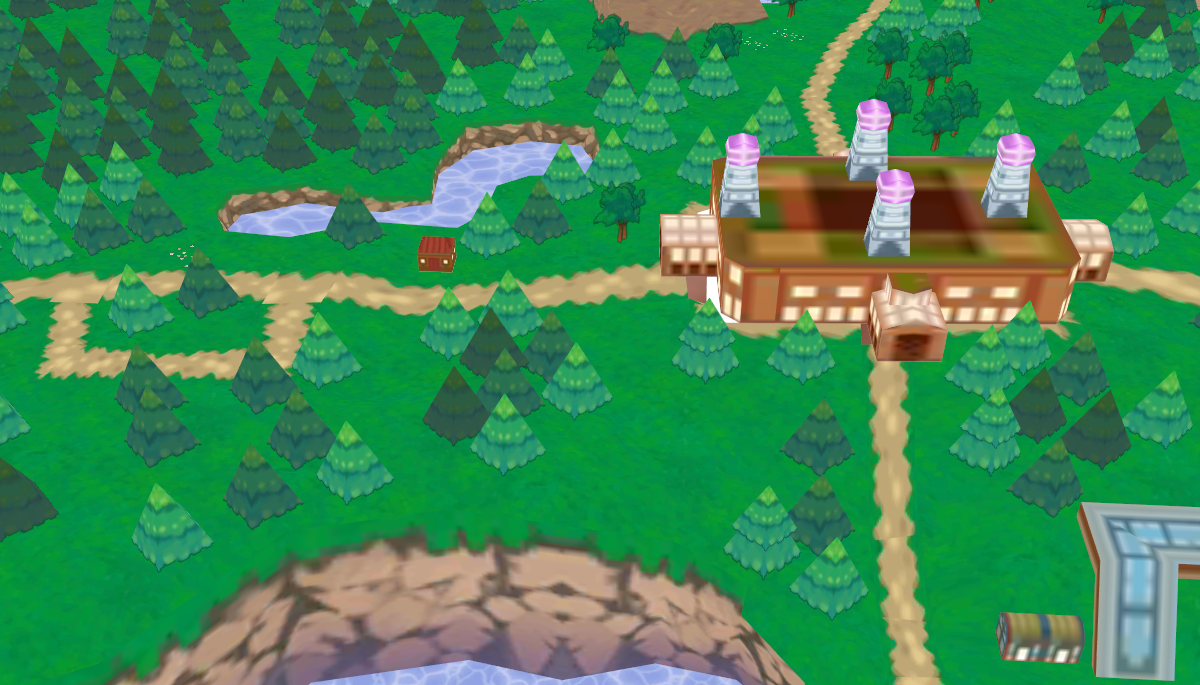
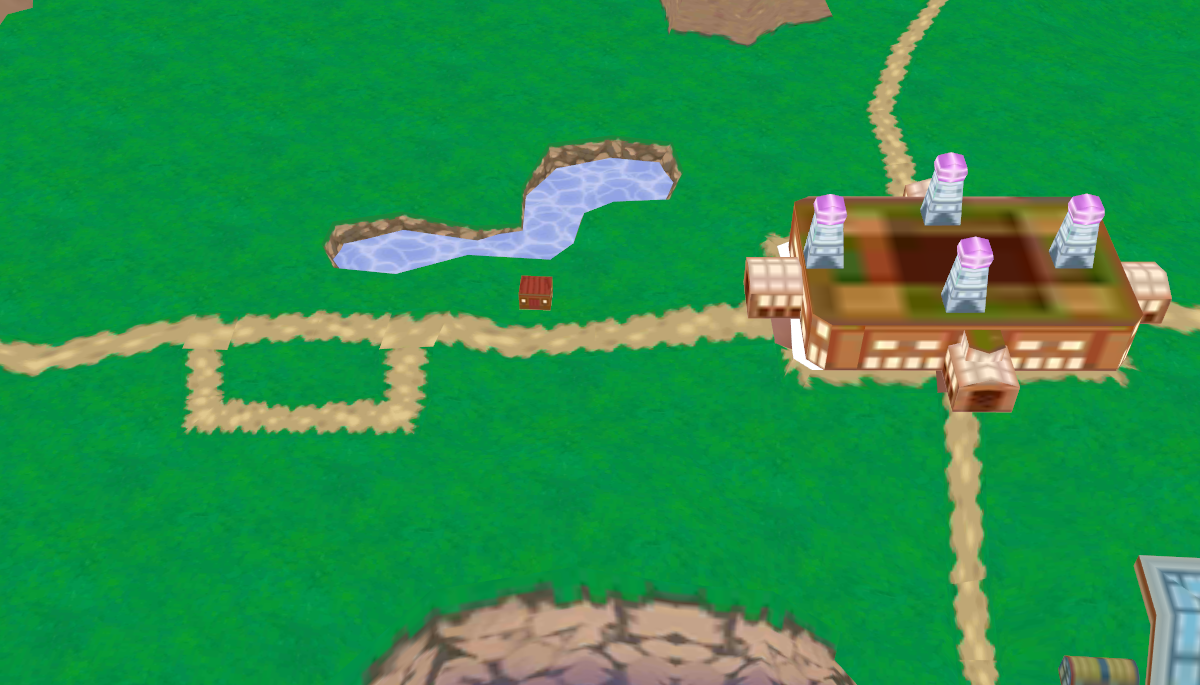
MapaFull

diff --git a/src/model/Logic.java b/src/model/Logic.java
@@ -15,11 +15,11 @@ public class Logic {
 	String pokemones2[];
 	
 	private int map [][]=  
-	       {{2, 0, 0, 0, 0, 2, 1, 1, 0, 0, 1},
-		    {0, 0, 1, 0, 0, 1, 0, 0, 0, 2, 0},
-		    {0, 0, 1, 1, 1, 0, 0, 0, 0, 0, 0},
-		    {0, 1, 1, 1, 0, 1, 0, 1, 0, 1, 0},
-		    {0, 2, 1, 0, 0, 1, 2, 4, 0, 0, 0},
+	       {{0, 0, 0, 0, 0, 0, 0, 0, 0, 2, 0},
+		    {0, 0, 0, 0, 0, 2, 2, 0, 0, 0, 0},
+		    {0, 0, 0, 2, 2, 0, 0, 0, 0, 0, 0},
+		    {0, 2, 0, 0, 0, 0, 0, 0, 0, 1, 0},
+		    {0, 0, 0, 0, 0, 0, 0, 0, 0, 2, 0},
 		    
 	       };
 	
@@ -29,6 +29,7 @@ public class Logic {
 	
 	PImage pJue,jI,jD,jF,jA,jIF,jDF,jFF,jAF;
 	int posYM,posXM;
+	int posYMA,posXMA;
 	int x, y;
 	int JM,screenCambio;
 
@@ -45,7 +46,7 @@ public class Logic {
 	int pantalla,mapaX,mapaY;
 	
 	//imagenes fondo y botones
-	PImage bayleefPerfil,pikachuPerfil,girafarigPerfil,gothoritaPerfil,shayminPerfil,emolgaPerfil,megaGardevoirPerfil,bulbasaurPerfil,manectricPerfil,luxrayPerfil,inventarioIcono,fondoRosado,pokedexVolver,inventarioVolver,usuariosVolver,ordenarPor,ordenNombre,ordenFecha,ordenTipo,pokedexIcono,fondoInicio, fondoNada, continuarBoton, continuarBotonN,registrarseBoton,registrarseBotonN, usuarioBoton,usuarioBotonN,pokemonEleccion,mapa;
+	PImage bayleefPerfil,pikachuPerfil,girafarigPerfil,gothoritaPerfil,shayminPerfil,emolgaPerfil,megaGardevoirPerfil,bulbasaurPerfil,manectricPerfil,luxrayPerfil,inventarioIcono,fondoRosado,pokedexVolver,inventarioVolver,usuariosVolver,ordenarPor,ordenNombre,ordenFecha,ordenTipo,pokedexIcono,fondoInicio, fondoNada, continuarBoton, continuarBotonN,registrarseBoton,registrarseBotonN, usuarioBoton,usuarioBotonN,pokemonEleccion,mapa,arbol;
 	PImage selec1,selec2,selec3;
 	
 	
@@ -66,7 +67,13 @@ public class Logic {
 	            if (map[matY][matX] == 1) {
 	                posYM = matY;
 	                posXM = matX;
-	                app.fill(255);
+	               
+	                
+	            }
+	            
+	            if (map[matY][matX] == 2) {
+	            	app.image(arbol,posXM,posYM);
+	                
 	                
 	            }
 	        }
@@ -151,10 +158,24 @@ public class Logic {
 				break;
 				case 2:
 					app.image(mapa,mapaX,mapaY);
-					app.image(pokedexIcono,20,310,70,54);
-					app.image(inventarioIcono,20,230);
+					app.image(pokedexIcono,20,345,70,54);
+					app.image(inventarioIcono,120,345);
 					
 					dibujarBebe();
+					
+					
+					//Arboles 
+					for (int matY = 0; matY < 5; matY++) {
+				        for (int matX = 0; matX < 11; matX++) {
+				    
+				          if (map[matY][matX] == 2) {
+				            	  posYMA = matY*70;
+					              posXMA = matX*70;
+				            	app.image(arbol,posXMA,posYMA);     
+				            }
+				        }
+				        }
+				        
 					
 					break;
 				case 3:
@@ -190,7 +211,6 @@ public class Logic {
 		
 		if( (app.mouseX>253 && app.mouseX<466)&& (app.mouseY>344 && app.mouseY<389)){
 			pantalla=1;
-			System.out.println("putostodos");
 		}
 		
 		break;
@@ -254,7 +274,7 @@ public class Logic {
 
 		    if (app.keyCode == app.RIGHT) {
 
-		    	if(posXM<4) {
+		    	if(posXM<10) {
 		        if (posXM + 1 < 50 && map[posYM][posXM + 1] == 0 || map[posYM][posXM + 1] == 4 || map[posYM][posXM + 1] == 5 || map[posYM][posXM + 1] == 7 || map[posYM][posXM + 1] == 6) {
 		            x += 70;
 		            JM = 2;
@@ -313,6 +333,7 @@ public class Logic {
 	    jA = app.loadImage("img/personaje espalda.png");
 		fondoInicio=app.loadImage("img/fondoInicio.png");
 		fondoNada=app.loadImage("img/fondoNada.png");
+		arbol=app.loadImage("img/arbolPequeno.png");
 		continuarBoton=app.loadImage("img/continuarBoton.png");
 		continuarBotonN=app.loadImage("img/continuarBotonN.png");
 		registrarseBoton=app.loadImage("img/registrarseBoton.png");
@@ -323,7 +344,7 @@ public class Logic {
 		selec1=app.loadImage("img/seleccionarBotonN.png");
 		selec2=app.loadImage("img/seleccionarBotonN.png");
 		selec3=app.loadImage("img/seleccionarBotonN.png");
-		mapa=app.loadImage("img/Mapa.png");
+		mapa=app.loadImage("img/mapa.png");
 		pokedexIcono=app.loadImage("img/pokedex.png");
 		pokedexVolver=app.loadImage("img/pokedexVolver.png");
 		inventarioVolver=app.loadImage("img/inventarioVolver.png");
